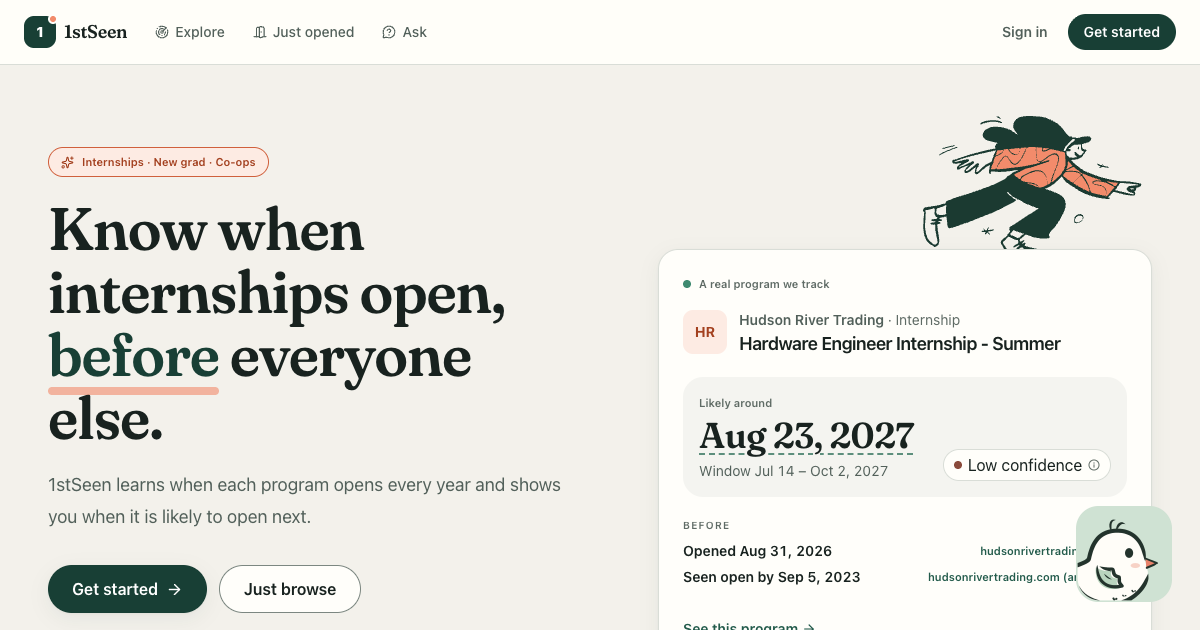
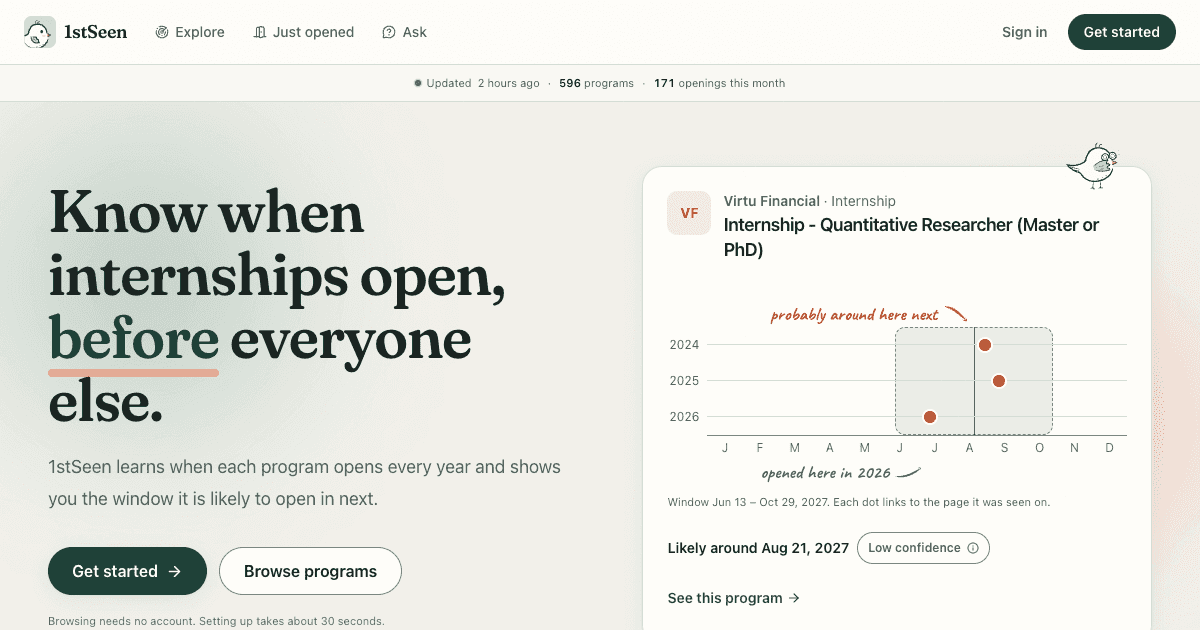
The link preview is a photograph of the site as it is
Retaken from 1stseen.win at 1200 by 630, so the picture a link shows is the
product people land on: the mark in the header, the people back where they
were, the chart with its notes and its arrows, and today's programs.

Nothing is set into the corner any more. The mark went there when the
photograph was of a site whose header carried none; now the header in the
photograph is the mark, drawn larger and where it belongs, and a second copy in
the corner only covered the card it sat on. One constant in the script turns it
back on.

A screenshot of this page is a few flat colours, a gradient and the grain, so a
palette of 128 holds it at a mean error of 1.3 of 255 and 64 KB rather than 573.
What it costs is a little dither in the warm wash on the right, which at the
size a preview is shown reads as the grain that is already there.

diff --git a/apps/web/app/layout.tsx b/apps/web/app/layout.tsx
@@ -18,9 +18,9 @@ const fraunces = Fraunces({ variable: "--font-fraunces", subsets: ["latin"], axe
 // The one handwritten voice: notes on the chart, and the words inside a sticker or a stamp. Nowhere else.
 const caveat = Caveat({ variable: "--font-caveat", subsets: ["latin"], weight: ["600", "700"], preload: false });
 
-// A photograph of the production landing page at 1200 by 630, the size link previews expect, with the bird's tile set
-// into its corner. It shows real data as it was on the day it was taken: retake it from the live site into
-// scripts/assets/og-source.png and run `npm run build:brand-art`, never from a development server.
+// A photograph of the production landing page at 1200 by 630, the size link previews expect. It shows real data as it
+// was on the day it was taken: retake it from the live site into scripts/assets/og-source.png and run
+// `npm run build:brand-art`, which is what shrinks it, never from a development server.
 const SOCIAL_IMAGE = {
   url: "/og-image.png",
   width: 1200,

diff --git a/docs/design-system.md b/docs/design-system.md
@@ -30,7 +30,7 @@ a hex value. New surfaces use tokens only; an arbitrary `[#hex]` value in new co
 | Display type | `heading-display` | Page and section headings in Fraunces (self-hosted by `next/font`); body text stays Geist |
 | Motion | `lift`, `press`, `rise`, `fade-in`, `drop-in`, `drift-track`, `bob-once`, `step-in`, `pop-in`, `stamp-in` | A hovered card, a pressed button, hero text entering, the hero chart's openings dropping in and its window fading in, the Just opened strip drifting, every hand-drawn character's single bob as it arrives (`--bob` sets how far, 8px by default and 4px on a small one), a first-run step entering, the payoff's character arriving, and the stamp landing on a save. Every one stops under `prefers-reduced-motion`, where the stamp is simply already there, and the strip does not move |
 | Depth | `glow` with `glow-accent` or `glow-warm`, and the page's grain | A blurred radial wash behind the hero and the closing call to action, mixed from `focus` and `warm` so it is a colour rather than grey haze, and a fixed grain over the page background at 3.5% so large flat areas are not perfectly flat |
-| Brand mark | `BrandMark` in `brand-mark.tsx`, drawing `BirdMark` in `brand/bird-mark.tsx` | The bird on its own tile, then the wordmark. The drawing is `design-refs/icon` as it stands (`docs/credits.md`), written out by `scripts/build-brand-art.mjs`, and it also makes `favicon.svg`, `icon-32.png`, `apple-touch-icon.png` and the corner of `og-image.png`. It clips itself, and a clip is named, so each copy on a page takes its own `markId` |
+| Brand mark | `BrandMark` in `brand-mark.tsx`, drawing `BirdMark` in `brand/bird-mark.tsx` | The bird on its own tile, then the wordmark. The drawing is `design-refs/icon` as it stands (`docs/credits.md`), written out by `scripts/build-brand-art.mjs`, and it also makes `favicon.svg`, `icon-32.png` and `apple-touch-icon.png`. `og-image.png` is a photograph of the live landing page, which carries the mark because the header does. It clips itself, and a clip is named, so each copy on a page takes its own `markId` |
 | Cameo | `Bird` in `brand/bird.tsx`, sizes `perch` (56 to 72px), `cameo` (48 to 64px), `tiny` (40 to 44px) | The bird beside something, never instead of it: the corner of the chart card, the save stamp, a search that found nothing, the head of a digest. One to a screen, and never where it would take a moment from the person in it. Decoration unless given a `label` |
 | Hand marks | `HandMark` in `brand/hand-mark.tsx` | Arrows, the stamp ring and tick, a sticker's torn edge, a section rule. Drawn at build time with perfect-freehand and written out as geometry; `fill-current`, so a caller sets one text colour. Always decoration |
 | Handwriting | the `hand` utility, Caveat | A note on the chart, a sticker, a stamp, a step number. Never a heading, never body text, and never the only place a fact appears |

diff --git a/docs/credits.md b/docs/credits.md
@@ -24,11 +24,14 @@ the bird turns up small beside them, one to a screen, the way a signature does.
 Two poses stay in `design-refs/bird/` and are not written out: `sleeping` and `waving`. A pose nobody draws is ten
 kilobytes of a page for nothing, so `BIRDS` in `scripts/build-brand-art.mjs` is the list of the ones in use.
 
-The mark itself — beside the wordmark in the header and the footer, and on the icon a browser tab, a bookmark, a
-home screen and the corner of a link preview show — is its own pair of drawings, `design-refs/icon/icon-C.svg` and
+The mark itself — beside the wordmark in the header and the footer, and on the icon a browser tab, a bookmark and a
+home screen show — is its own pair of drawings, `design-refs/icon/icon-C.svg` and
 `design-refs/icon/favicon-C.svg`. They are the same bird; the second carries a heavier line, which is what lets it
 hold together at sixteen pixels, and it draws `favicon.svg` and `icon-32.png` while the first draws everything
 larger. The tile belongs to the drawings, so the wordmark supplies none.
+
+A link preview carries the mark too, but only because the photograph it is made of has the header in it; nothing is
+set into its corner (`scripts/build-brand-art.mjs`).
 
 `scripts/build-brand-art.mjs` takes the provenance manifest off the copy that ships, shrinks the file, and writes the
 elements into `apps/web/lib/brand/bird-mark.ts`. It changes nothing else: not a point, not a colour, not a shape. At
